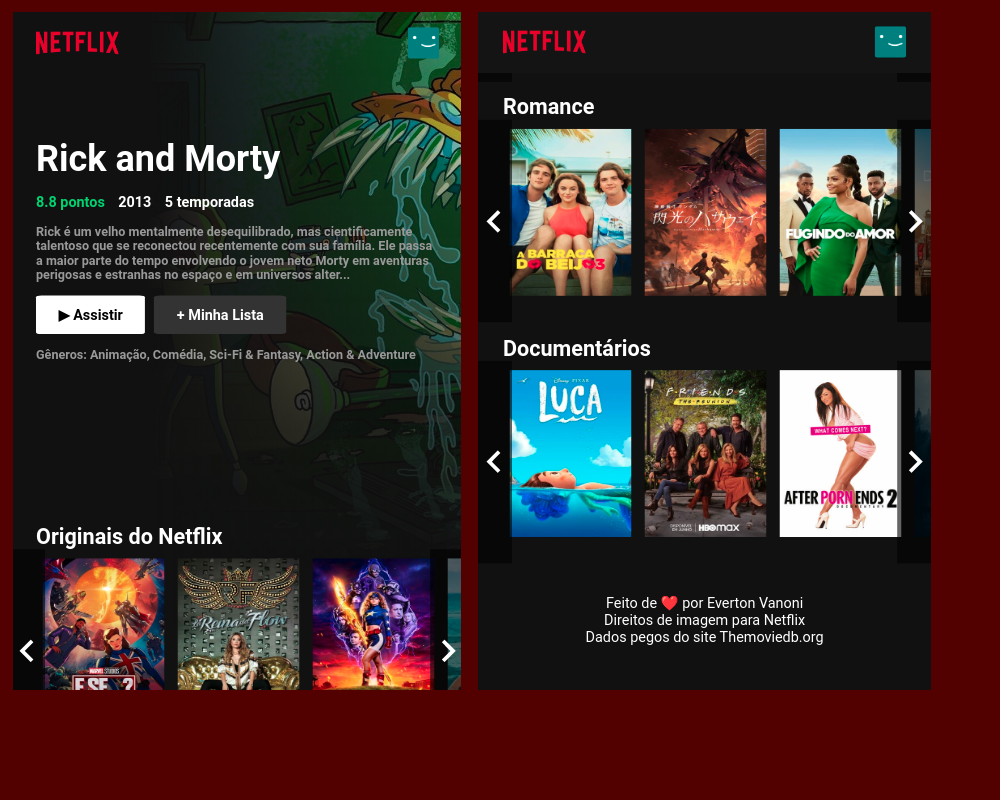
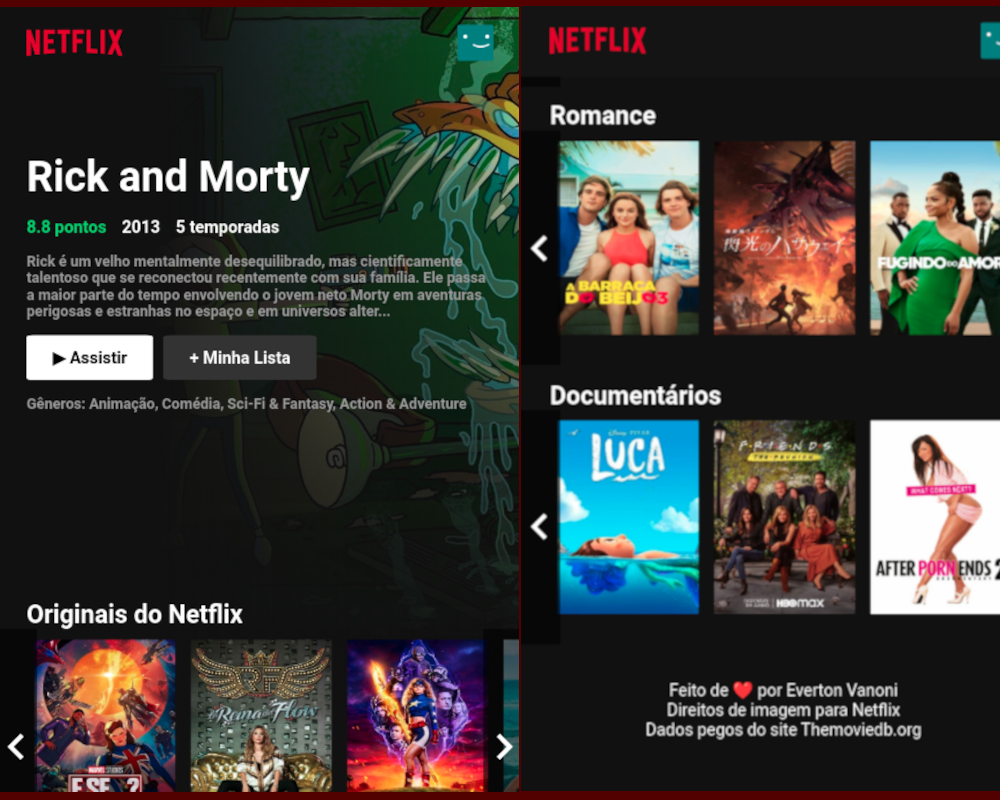
update

diff --git a/js/portfolio.js b/js/portfolio.js
@@ -1,5 +1,10 @@
 let totalslides = 4
 let currentslide = 0;
+let currentslide2 = 0;
+let currentslide3 = 0;
+let currentslide4 = 0;
+let currentslide5 = 0;
+let currentslide6 = 0;
 
 let slider = document.querySelectorAll('.slider--width')
 let item = document.querySelectorAll('.slider--item')
@@ -16,46 +21,46 @@ function goprev()
 }
 function goprev2()
 {
-    currentslide--;
-    if(currentslide < 0)
+    currentslide2--;
+    if(currentslide2 < 0)
     {
-        currentslide = totalslides - 1;
+        currentslide2 = totalslides - 1;
     }
     updateMargin2(); 
 }
 function goprev3()
 {
-    currentslide--;
-    if(currentslide < 0)
+    currentslide3--;
+    if(currentslide3 < 0)
     {
-        currentslide = totalslides - 1;
+        currentslide3 = totalslides - 1;
     }
     updateMargin3(); 
 }
 function goprev4()
 {
-    currentslide--;
-    if(currentslide < 0)
+    currentslide4--;
+    if(currentslide4 < 0)
     {
-        currentslide = totalslides - 1;
+        currentslide4 = totalslides - 1;
     }
     updateMargin4(); 
 }
 function goprev5()
 {
-    currentslide--;
-    if(currentslide < 0)
+    currentslide5--;
+    if(currentslide5 < 0)
     {
-        currentslide = totalslides - 1;
+        currentslide5 = totalslides - 1;
     }
     updateMargin5(); 
 }
 function goprev6()
 {
-    currentslide--;
-    if(currentslide < 0)
+    currentslide6--;
+    if(currentslide6 < 0)
     {
-        currentslide = totalslides - 1;
+        currentslide6 = totalslides - 1;
     }
     updateMargin6(); 
 }
@@ -71,46 +76,46 @@ function gonext()
 }
 function gonext2()
 {
-    currentslide++;
-    if(currentslide > (totalslides - 1))
+    currentslide2++;
+    if(currentslide2 > (totalslides - 1))
     {
-        currentslide = 0;
+        currentslide2 = 0;
     }
     updateMargin2();
 }
 function gonext3()
 {
-    currentslide++;
-    if(currentslide > (totalslides - 1))
+    currentslide3++;
+    if(currentslide3 > (totalslides - 1))
     {
-        currentslide = 0;
+        currentslide3 = 0;
     }
     updateMargin3();
 }
 function gonext4()
 {
-    currentslide++;
-    if(currentslide > (totalslides - 1))
+    currentslide4++;
+    if(currentslide4 > (totalslides - 1))
     {
-        currentslide = 0;
+        currentslide4 = 0;
     }
     updateMargin4();
 }
 function gonext5()
 {
-    currentslide++;
-    if(currentslide > (totalslides - 1))
+    currentslide5++;
+    if(currentslide5 > (totalslides - 1))
     {
-        currentslide = 0;
+        currentslide5 = 0;
     }
     updateMargin5();
 }
 function gonext6()
 {
-    currentslide++;
-    if(currentslide > (totalslides - 1))
+    currentslide6++;
+    if(currentslide6 > (totalslides - 1))
     {
-        currentslide = 0;
+        currentslide6 = 0;
     }
     updateMargin6();
 }
@@ -124,31 +129,31 @@ function updateMargin1()
 function updateMargin2()
 {
     let sliderwidth2 = document.querySelector('.doisitem').clientWidth;
-   let newmargin2 = (currentslide * sliderwidth2);    
+   let newmargin2 = (currentslide2 * sliderwidth2);    
    document.querySelector(".doiswidth").style.marginLeft = `-${newmargin2}px`
 }
 function updateMargin3()
 {
     let sliderwidth3 = document.querySelector('.tresitem').clientWidth;
-   let newmargin3 = (currentslide * sliderwidth3);   
+   let newmargin3 = (currentslide3 * sliderwidth3);   
     document.querySelector(".treswidth").style.marginLeft = `-${newmargin3}px`
 }
 function updateMargin4()
 {
     let sliderwidth4 = document.querySelector('.quatroitem').clientWidth;
-   let newmargin4 = (currentslide * sliderwidth4);    
+   let newmargin4 = (currentslide4 * sliderwidth4);    
    document.querySelector(".quatrowidth").style.marginLeft = `-${newmargin4}px`
 }
 function updateMargin5()
 {
     let sliderwidth5 = document.querySelector('.cincoitem').clientWidth;
-   let newmargin5 = (currentslide * sliderwidth5);   
+   let newmargin5 = (currentslide5 * sliderwidth5);   
    document.querySelector(".cincowidth").style.marginLeft = `-${newmargin5}px`
 }
 function updateMargin6()
 {
     let sliderwidth6 = document.querySelector('.seisitem').clientWidth;
-   let newmargin6 = (currentslide * sliderwidth6);   
+   let newmargin6 = (currentslide6 * sliderwidth6);   
    document.querySelector(".seiswidth").style.marginLeft = `-${newmargin6}px`
 }
 

diff --git a/css/portfolio.css b/css/portfolio.css
@@ -79,7 +79,7 @@ h2
 }
 .slider img
 {
-  width: 100%;
+  width: 100vw;
   height: 100%;
 }
 .slider--controls
@@ -130,9 +130,7 @@ h2
   border-radius: 50%;
   cursor: pointer;
 }
-.itens img {
-  background-size:cover;
-}
+
 @keyframes typing2 
 {
   from 
@@ -193,13 +191,13 @@ h2
   width: calc(100vw* 4);
   height: 90vh;
   display: flex;
-  transition: all ease 0.4s;
+  transition: all ease 0.6s;
   scroll-behavior: initial;
   overflow: hidden;
 }
 .slider--item
 {
-  background-position: initial;
+  background-position: center;
   background-size: cover;
 }
 .slider--item img
@@ -210,7 +208,7 @@ h2
 .slider img
 {
   width: calc(100vw - 170px);
-  height: 100vh;
+  height: 90vh;
   overflow: hidden;
 }
 .slider--controls
